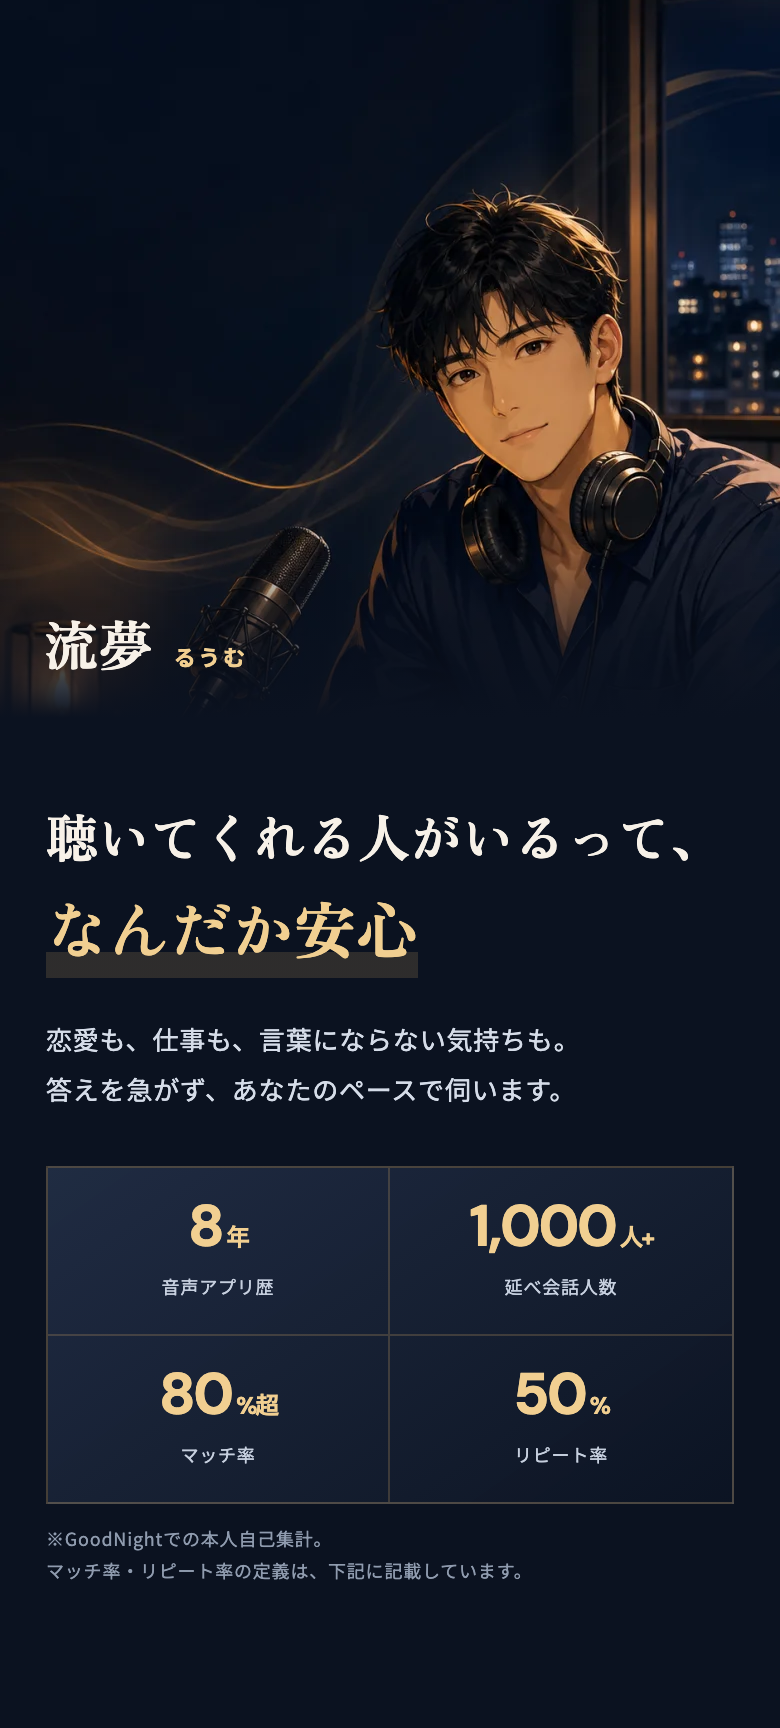
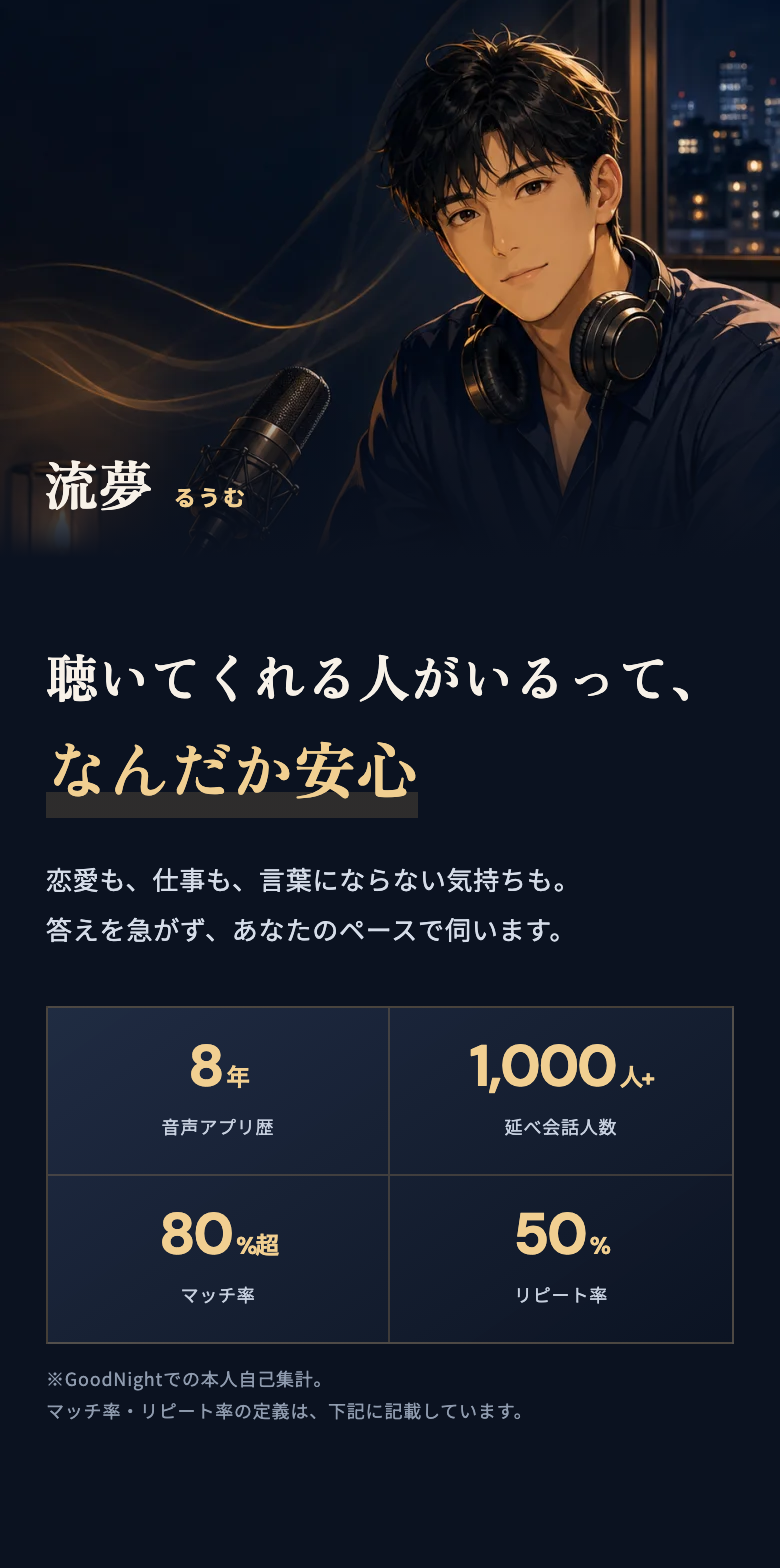
Tighten mobile hero and float CTAs

diff --git a/style.css b/style.css
@@ -35,7 +35,7 @@ footer{padding:34px 22px 94px;background:#060b14;text-align:center;color:#7f8b9d
 .flat-page{position:relative;isolation:isolate;min-height:100vh;overflow-x:hidden;padding-bottom:72px;background:radial-gradient(circle at 50% 10%,rgba(218,174,104,.1),transparent 24rem),radial-gradient(circle at 84% 76%,rgba(64,91,137,.2),transparent 34rem),linear-gradient(145deg,#040812 0%,#101a2e 48%,#050913 100%);background-attachment:fixed}.flat-page:before,.flat-page:after{content:"";position:fixed;pointer-events:none;z-index:0}.flat-page:before{inset:-260px -18vw 0;opacity:.62;background-image:radial-gradient(ellipse 66% 48px at 50% 0,transparent 93%,rgba(236,200,133,.068) 95%,transparent 97%),radial-gradient(ellipse 78% 56px at 50% 0,transparent 94%,rgba(174,196,232,.042) 96%,transparent 98%);background-position:0 0,0 130px;background-size:100% 260px;animation:wave-flow 18s linear infinite}.flat-page:after{inset:-520px 0 0;opacity:.12;background-image:radial-gradient(circle at 9% 12%,rgba(239,207,145,.62) 0 1px,transparent 1.6px),radial-gradient(circle at 74% 29%,rgba(151,181,229,.48) 0 1px,transparent 1.7px),radial-gradient(circle at 31% 57%,rgba(239,207,145,.44) 0 1.2px,transparent 1.8px),radial-gradient(circle at 91% 78%,rgba(151,181,229,.42) 0 1px,transparent 1.6px),radial-gradient(circle at 58% 91%,rgba(239,207,145,.38) 0 .9px,transparent 1.5px);background-size:420px 520px;-webkit-mask-image:linear-gradient(to bottom,transparent 0,#000 12%,#000 88%,transparent 100%);mask-image:linear-gradient(to bottom,transparent 0,#000 12%,#000 88%,transparent 100%);animation:light-fall 20s linear infinite}.flat-page .page-shell{position:relative;z-index:1;background:#0b1220;box-shadow:0 0 0 1px rgba(226,183,109,.08),0 0 90px rgba(0,0,0,.68),0 0 120px rgba(69,96,145,.12)}.flat-slice{display:block;width:100%;height:auto}.flat-cta{padding:24px 23px 34px;background:#0b1220}.flat-cta.proof-cta{padding-top:22px;background:linear-gradient(180deg,#0b1220 0%,#111b30 100%)}.flat-cta.final-cta{padding-top:0;padding-bottom:46px}.flat-page footer{padding-top:30px}.flat-page .cta,.flat-page .sticky-cta a{position:relative;isolation:isolate;overflow:hidden;animation:cta-breathe 4.8s ease-in-out infinite}.flat-page .sticky-cta a{animation-delay:-2.4s}.flat-page .cta:before,.flat-page .sticky-cta a:before{content:"";position:absolute;z-index:-1;top:-70%;bottom:-70%;left:-24%;width:16%;pointer-events:none;background:linear-gradient(90deg,transparent,rgba(255,247,222,.58),transparent);filter:blur(1px);transform:translateX(-260%) rotate(12deg);animation:cta-sheen 6.2s ease-in-out infinite}.flat-page .sticky-cta a:before{animation-delay:-3.1s}.flat-page .cta:active,.flat-page .sticky-cta a:active{animation:none;transform:scale(.985)}.flat-page .cta:focus-visible,.flat-page .sticky-cta a:focus-visible{outline:2px solid #fff1cf;outline-offset:3px}
 @keyframes wave-flow{from{transform:translate3d(0,-260px,0)}to{transform:translate3d(0,0,0)}}
 @keyframes light-fall{from{transform:translate3d(0,-520px,0)}to{transform:translate3d(0,0,0)}}
-@keyframes cta-breathe{0%,100%{transform:translateY(0) scale(1);box-shadow:0 14px 32px rgba(194,143,63,.22)}50%{transform:translateY(-1px) scale(1.006);box-shadow:0 17px 38px rgba(218,174,104,.34)}}
+@keyframes cta-breathe{0%,100%{transform:translateY(3px);box-shadow:0 11px 26px rgba(194,143,63,.2)}50%{transform:translateY(-7px);box-shadow:0 21px 42px rgba(218,174,104,.38)}}
 @keyframes cta-sheen{0%,62%{transform:translateX(-260%) rotate(12deg);opacity:0}68%{opacity:.72}84%,100%{transform:translateX(760%) rotate(12deg);opacity:0}}
 @media(prefers-reduced-motion:reduce){.flat-page:before,.flat-page:after,.flat-page .cta,.flat-page .sticky-cta a,.flat-page .cta:before,.flat-page .sticky-cta a:before{animation:none!important}}
 .legal-page{min-height:100vh;background:var(--paper);color:var(--paper-ink)}.legal-header{padding:38px 23px 24px;background:#111b30;color:#fff}.legal-header a{color:#d8b978;font-size:11px}.legal-header h1{font:700 27px/1.5 "Zen Old Mincho",serif;margin-top:18px}.legal-content{padding:32px 23px 70px}.legal-content section{padding:22px 0;border-bottom:1px solid rgba(25,34,53,.13)}.legal-content section:first-child{padding-top:0}.legal-content h2{font-size:18px;margin-bottom:12px}.legal-content p,.legal-content li{font-size:12px;line-height:1.9;color:#4f596a}.legal-content ul{padding-left:1.35em}.legal-content a{color:#835b25}.legal-date{font-size:10px!important;color:#7d8490!important;margin-top:28px}

diff --git a/index.html b/index.html
@@ -15,7 +15,7 @@
 <body class="flat-page">
   <div class="page-shell">
     <main>
-      <img class="flat-slice" src="assets/lp-flat/01-hero.png" alt="流夢の電話相談。聴いてくれる人がいるって、なんだか安心。GoodNight利用8年、延べ1,000人以上、マッチ率80%超、リピート率50%。" width="780" height="1728">
+      <img class="flat-slice" src="assets/lp-flat/01-hero.png" alt="流夢の電話相談。聴いてくれる人がいるって、なんだか安心。GoodNight利用8年、延べ1,000人以上、マッチ率80%超、リピート率50%。" width="780" height="1568">
       <div class="flat-cta hero-cta"><a class="cta" href="https://coconala.com/services/4327249" target="_blank" rel="nofollow noopener noreferrer">流夢とお話ししてみる</a></div>
 
       <img class="flat-slice" src="assets/lp-flat/02-empathy.png" alt="友だちじゃない、恋人でもない、だれかに聴いてほしい。恋愛、仕事、傾聴、アドバイスについて話せます。" width="780" height="1704" loading="lazy">
